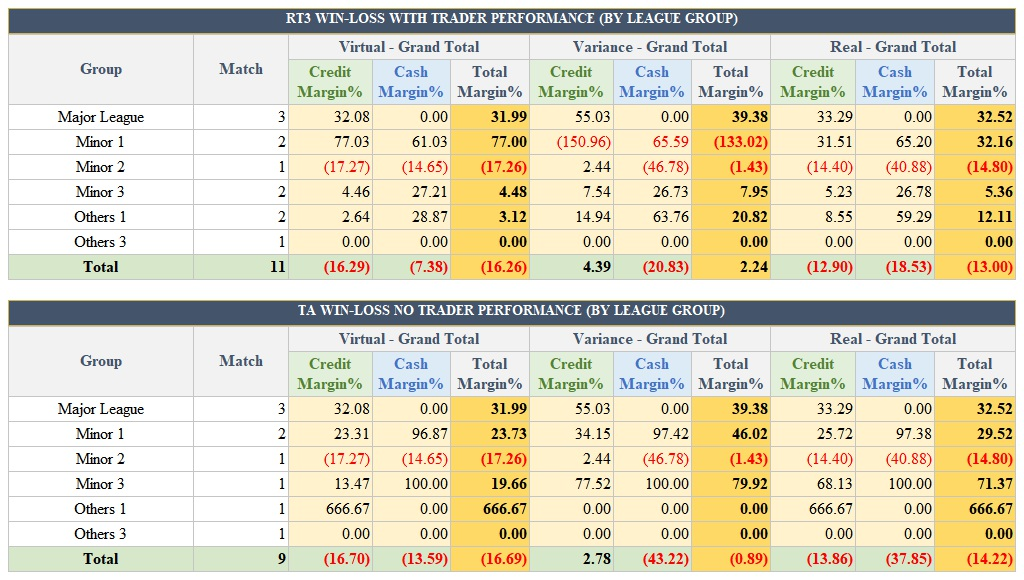
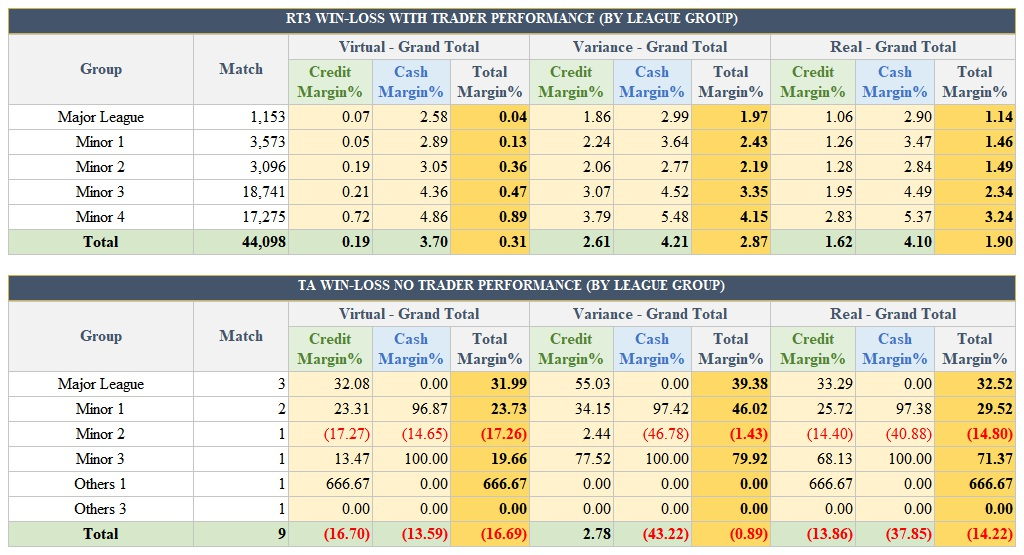
132038 - Generate grid RT3 & TA comparison

diff --git a/Fanex.MAP.TGRS.WebAPI/Service/AutoTradingPerformanceService.cs b/Fanex.MAP.TGRS.WebAPI/Service/AutoTradingPerformanceService.cs
@@ -15,15 +15,29 @@
 
     public class AutoTradingPerformanceService : IAutoTradingPerformanceService
     {
+        private string _leagueGroupIds = "1, 2, 3, 4, 5, 6, 7, 8, 9, 10, 11";
+        private string _typeSiteIds = "2, 3";
+        private DateTime _taLauchedDate = new DateTime(2019, 11, 7);
+        private DateTime _ptAfterIncreaseVarianceDate = new DateTime(2019, 10, 19);
+
         public Task WriteAutoTradingTAMonthly()
         {
             var saveImagePath = AppDomain.CurrentDomain.BaseDirectory 
                                 + JobSettings.AutoTradingConfig.FolderImagePath 
                                 + @"\" + Consts.AutoTradingSaveImageTaMonthly;
 
-            IAutoTradingHtmlWriter writer = new AutoTradingHtmlWriter();
+            var criteria = new GetAutoTradingMonthlyPerformanceCriteria
+            {
+                FromDate = _taLauchedDate,
+                ToDate = GetSundayOfLastWeek(),
+                LeagueGroupIds = _leagueGroupIds,
+                TypeSiteIds = _typeSiteIds,
+                Model = 3 // TA
+            };
 
-            GetAutoTradingMonthlyPerformance(GenerateMonthlyPerformanceCriteria(), writer);
+            IAutoTradingHtmlWriter writer = new AutoTradingHtmlWriter();            
+
+            GetAutoTradingMonthlyPerformance(criteria, writer);
 
             writer.RenderHtmlToImage(saveImagePath);
 
@@ -37,15 +51,24 @@
             var saveImagePath = AppDomain.CurrentDomain.BaseDirectory 
                                 + JobSettings.AutoTradingConfig.FolderImagePath 
                                 + @"\" + Consts.AutoTradingSaveImagePTAndAfterVRAdjustment;
+            var criteria = new GetAutoTradingWeeklyPerformanceCriteria
+            {
+                FromDate = _ptAfterIncreaseVarianceDate,
+                ToDate = GetSundayOfLastWeek(),
+                LeagueGroupIds = _leagueGroupIds,
+                TypeSiteIds = _typeSiteIds,
+                Model = 3 // TA
+            };
 
             IAutoTradingHtmlWriter writer = new AutoTradingHtmlWriter();
             
-            writer.GenerateBeginTagHtmlBody();
-            var criteriaWeekly = GenerateWeeklyPerformanceCriteria();
-            GetAutoTradingTimelinePerformance(criteriaWeekly, titleTaNoTrader, writer);
+            writer.GenerateBeginTagHtmlBody();           
+            GetAutoTradingTimelinePerformance(criteria, titleTaNoTrader, writer);
 
             writer.GenerateEmptyRows();
-            GetAutoTradingWeeklyPerformance(criteriaWeekly, titleLastWeeks, writer);
+            criteria.FromDate = GetDateOfFourLastWeek();
+            criteria.ToDate = GetSundayOfLastWeek();
+            GetAutoTradingWeeklyPerformance(criteria, titleLastWeeks, writer);
 
             writer.GenerateEndTagHtmlBody()
                   .RenderHtmlToImage(saveImagePath);
@@ -60,19 +83,23 @@
             var saveImagePath = AppDomain.CurrentDomain.BaseDirectory 
                                 + JobSettings.AutoTradingConfig.FolderImagePath 
                                 + @"\" + Consts.AutoTradingSaveImageRT3AndTAComparition;
+            var criteria = new GetAutoTradingEventPerformanceCriteria
+            {
+                FromDate = _taLauchedDate,
+                ToDate = GetSundayOfLastWeek(),
+                TypeSiteIds = _typeSiteIds,
+                Model = 3 // TA
+            };
 
             IAutoTradingHtmlWriter writer = new AutoTradingHtmlWriter();
             
             var leagueGroupList = GetLeagueGroupList();
             writer.GenerateBeginTagHtmlBody();
-
-            var criteriaEvent = GenerateEventPerformanceCriteria();
-            criteriaEvent.Model = 1;
-            GetAutoTradingEventPerformance(criteriaEvent, leagueGroupList, titleModelRT3, writer);
+            
+            GetAutoTradingEventRT3Performance(titleModelRT3, writer);
 
             writer.GenerateEmptyRows();
-            criteriaEvent.Model = 3;
-            GetAutoTradingEventPerformance(criteriaEvent, leagueGroupList, titleModelTA, writer);
+            GetAutoTradingEventTAPerformance(criteria, leagueGroupList, titleModelTA, writer);
 
             writer.GenerateEndTagHtmlBody()
                   .RenderHtmlToImage(saveImagePath);
@@ -153,7 +180,7 @@
                                 autoTradingTimelineInfo.RT3AfterPT85,
                                 autoTradingTimelineInfo.RT3IncreaseVariancePT
                             };
-                            writer.GenerateTimelinePTTableTr(timelinePTInfoList);                            
+                            writer.GenerateRT3PTTableTr(timelinePTInfoList);                            
                         }
 
                         var autoTradingName = "TA After PT 85 & increase Variance PT";
@@ -167,7 +194,7 @@
         private AutoTradingTimelineInfo GetAutoTradingTimelineInfos()
         {
             Directory.SetCurrentDirectory(AppDomain.CurrentDomain.BaseDirectory);
-            var json = File.ReadAllText("JobWorks/Settings/AutoTradingTimeline.json");
+            var json = File.ReadAllText("JobWorks/Settings/AutoTradingTimelineFixed.json");
             return JsonConvert.DeserializeObject<AutoTradingTimelineInfo>(json);
         }
 
@@ -222,7 +249,32 @@
             return weekly;
         }
 
-        private void GetAutoTradingEventPerformance(GetAutoTradingEventPerformanceCriteria criteria, Dictionary<int, string> leagueGroupList, string title, IAutoTradingHtmlWriter writer)
+        private void GetAutoTradingEventRT3Performance(string title, IAutoTradingHtmlWriter writer)
+        {
+            Directory.SetCurrentDirectory(AppDomain.CurrentDomain.BaseDirectory);
+            var json = File.ReadAllText("JobWorks/Settings/AutoTradingEventRT3Fixed.json");
+            var eventRT3Info = JsonConvert.DeserializeObject<AutoTradingEventRT3Info>(json);
+
+            if (eventRT3Info != null)
+            {
+                var eventRT3List = new List<AutoTradingPTPerformanceInfo>
+                            {
+                                eventRT3Info.MajorLeague,
+                                eventRT3Info.Minor1,
+                                eventRT3Info.Minor2,
+                                eventRT3Info.Minor3,
+                                eventRT3Info.Minor4,
+                                eventRT3Info.Total
+                            };
+
+                writer.GenerateBeginTagHtmlBody()
+                      .GenerateTable(title, "Group", true)
+                      .GenerateEventRT3PTTableTr(eventRT3List)
+                      .RenderControlTable();
+            }
+        }
+
+        private void GetAutoTradingEventTAPerformance(GetAutoTradingEventPerformanceCriteria criteria, Dictionary<int, string> leagueGroupList, string title, IAutoTradingHtmlWriter writer)
         {
             using (var objectDb = new ObjectDb(criteria.GetSettingKey()))
             {
@@ -255,45 +307,22 @@
                         }
 
                         writer.GenerateGrandTotalTableTr(eventData, grandTotalSummary, "Total")
-                               .RenderControlTable();                              
+                               .RenderControlTable();
                     }
                 }
             }
+        }    
+
+        private DateTime GetDateOfFourLastWeek()
+        {
+            var sundayOfLastWeek = GetSundayOfLastWeek();
+
+            return sundayOfLastWeek.AddDays(-28);
         }
 
-        private GetAutoTradingMonthlyPerformanceCriteria GenerateMonthlyPerformanceCriteria()
+        private DateTime GetSundayOfLastWeek()
         {
-            return new GetAutoTradingMonthlyPerformanceCriteria
-            {
-                FromDate = new DateTime(2020, 01, 01),
-                ToDate = new DateTime(2020, 04, 01),
-                LeagueGroupIds = "1, 2, 3, 4, 5, 6",
-                TypeSiteIds = "2, 3",
-                Model = 3
-            };
-        }
-
-        private GetAutoTradingWeeklyPerformanceCriteria GenerateWeeklyPerformanceCriteria()
-        {
-            return new GetAutoTradingWeeklyPerformanceCriteria
-            {
-                FromDate = new DateTime(2020, 01, 01),
-                ToDate = new DateTime(2020, 04, 01),
-                LeagueGroupIds = "1, 2, 3, 4, 5, 6",
-                TypeSiteIds = "2, 3",
-                Model = 3
-            };
-        }
-
-        private GetAutoTradingEventPerformanceCriteria GenerateEventPerformanceCriteria()
-        {
-            return new GetAutoTradingEventPerformanceCriteria
-            {
-                FromDate = new DateTime(2020, 01, 01),
-                ToDate = new DateTime(2020, 04, 01),
-                TypeSiteIds = "2, 3",
-                Model = 1
-            };
+            return DateTime.Now.AddDays(-(int)DateTime.Now.DayOfWeek);
         }
 
         private Dictionary<int, string> GetLeagueGroupList()

diff --git a/Fanex.MAP.TGRS.WebAPI/Model/HtmlModel/AutoTrading/AutoTradingHtmlWriter.cs b/Fanex.MAP.TGRS.WebAPI/Model/HtmlModel/AutoTrading/AutoTradingHtmlWriter.cs
@@ -125,41 +125,20 @@
             return this;
         }
 
-        public IAutoTradingHtmlWriter GenerateTimelinePTTableTr(List<AutoTradingPTPerformanceInfo> autoTradingInfos)
+        public IAutoTradingHtmlWriter GenerateRT3PTTableTr(List<AutoTradingPTPerformanceInfo> autoTradingInfos)
         {
-            var styleTableTd = _css.StyleTimelinePTTableTd;
-            var styleTableTdSum = _css.StyleTimelinePTTableTdSum;
-
-            foreach (var info in autoTradingInfos)
-            {
-                var cellAutoTradingName = new TableCell { Text = info.PTName, HorizontalAlign = HorizontalAlign.Center };
-                var cellMatch = new TableCell { Text = info.MatchCount.ToString(Consts.FormatIntToString), HorizontalAlign = HorizontalAlign.Right };
-
-                foreach (var style in styleTableTd)
-                {
-                    cellAutoTradingName.Style.Add(style.Key, style.Value);
-                    cellMatch.Style.Add(style.Key, style.Value);
-                }
-
-                var row = GenerateBodyTableRow();
-                row.Cells.Add(cellAutoTradingName);
-                row.Cells.Add(cellMatch);
-                row.Cells.Add(GenerateBodyTableCell(info.VirtualCreditMargin, styleTableTd));
-                row.Cells.Add(GenerateBodyTableCell(info.VirtualCashMargin, styleTableTd));
-                row.Cells.Add(GenerateBodyTableCell(info.VirtualTotalMargin, styleTableTdSum));
-                row.Cells.Add(GenerateBodyTableCell(info.VarianceCreditMargin, styleTableTd));
-                row.Cells.Add(GenerateBodyTableCell(info.VarianceCashMargin, styleTableTd));
-                row.Cells.Add(GenerateBodyTableCell(info.VarianceTotalMargin, styleTableTdSum));
-                row.Cells.Add(GenerateBodyTableCell(info.RealCreditMargin, styleTableTd));
-                row.Cells.Add(GenerateBodyTableCell(info.RealCashMargin, styleTableTd));
-                row.Cells.Add(GenerateBodyTableCell(info.RealTotalMargin, styleTableTdSum));
-
-                _table.Rows.Add(row);
-            }
+            GenerateRT3PTTableTr(autoTradingInfos, null, null);
 
             return this;
         }
 
+        public IAutoTradingHtmlWriter GenerateEventRT3PTTableTr(List<AutoTradingPTPerformanceInfo> autoTradingInfos)
+        {
+            GenerateRT3PTTableTr(autoTradingInfos, _css.StyleTableTdSite, _css.StyleTableTdSiteSum);
+
+            return this;
+        }
+       
         public IAutoTradingHtmlWriter RenderControlTable()
         {
             _table.RenderControl(_writer);
@@ -186,6 +165,55 @@
             image.Save(savePath);
 
             return this;
+        }
+
+        private void GenerateRT3PTTableTr(List<AutoTradingPTPerformanceInfo> autoTradingInfos
+           , Dictionary<string, string> styleTableTd
+           , Dictionary<string, string> styleTableTdSum)
+        {
+            var isStyleDefault = false;
+
+            if (styleTableTd == null)
+            {
+                isStyleDefault = true;
+                styleTableTd = _css.StyleTimelinePTTableTd;
+                styleTableTdSum = _css.StyleTimelinePTTableTdSum;
+            }
+
+            foreach (var info in autoTradingInfos)
+            {
+                var cellAutoTradingName = new TableCell { Text = info.PTName, HorizontalAlign = HorizontalAlign.Center };
+                var cellMatch = new TableCell { Text = info.MatchCount.ToString(Consts.FormatIntToString), HorizontalAlign = HorizontalAlign.Right };
+                var styles = isStyleDefault ? _css.StyleTimelinePTTableTd : _css.StyleTableTd;
+
+                if (info.PTName.ToUpper().Equals(Consts.AutoTradingTOTAL))
+                {
+                    styles = _css.StyleTableTdGrandTotalSite;
+                    styleTableTd = _css.StyleTableTdGrandTotalSite;
+                    styleTableTdSum = _css.StyleTableTdGrandTotalSiteSum;
+                }
+
+                foreach (var style in styles)
+                {
+                    cellAutoTradingName.Style.Add(style.Key, style.Value);
+                    cellMatch.Style.Add(style.Key, style.Value);
+                }
+
+                var row = GenerateBodyTableRow();
+                row.Cells.Add(cellAutoTradingName);
+                row.Cells.Add(cellMatch);
+                row.Cells.Add(GenerateBodyTableCell(info.VirtualCreditMargin, styleTableTd));
+                row.Cells.Add(GenerateBodyTableCell(info.VirtualCashMargin, styleTableTd));
+                row.Cells.Add(GenerateBodyTableCell(info.VirtualTotalMargin, styleTableTdSum));
+                row.Cells.Add(GenerateBodyTableCell(info.VarianceCreditMargin, styleTableTd));
+                row.Cells.Add(GenerateBodyTableCell(info.VarianceCashMargin, styleTableTd));
+                row.Cells.Add(GenerateBodyTableCell(info.VarianceTotalMargin, styleTableTdSum));
+                row.Cells.Add(GenerateBodyTableCell(info.RealCreditMargin, styleTableTd));
+                row.Cells.Add(GenerateBodyTableCell(info.RealCashMargin, styleTableTd));
+                row.Cells.Add(GenerateBodyTableCell(info.RealTotalMargin, styleTableTdSum));
+
+                _table.Rows.Add(row);
+            }
         }
 
         private TableRow GenerateRangeHeaderColumns(string autoTradingName)

diff --git a/Fanex.MAP.TGRS.WebAPI/Model/DataModel/AutoTrading/AutoTradingEventRT3Info.cs b/Fanex.MAP.TGRS.WebAPI/Model/DataModel/AutoTrading/AutoTradingEventRT3Info.cs
@@ -1,0 +1,19 @@
+namespace Fanex.MAP.TGRS.WebAPI.Model.DataModel.AutoTrading
+{
+    public class AutoTradingEventRT3Info
+    {
+        public AutoTradingPTPerformanceInfo MajorLeague { get; set; }
+
+        public AutoTradingPTPerformanceInfo Minor1 { get; set; }
+
+        public AutoTradingPTPerformanceInfo Minor2 { get; set; }
+
+        public AutoTradingPTPerformanceInfo Minor3 { get; set; }
+
+        public AutoTradingPTPerformanceInfo Minor4 { get; set; }
+
+        public AutoTradingPTPerformanceInfo Other1 { get; set; }
+
+        public AutoTradingPTPerformanceInfo Total { get; set; }
+    }
+}

diff --git a/Fanex.MAP.TGRS.WebAPI/Model/HtmlModel/AutoTrading/IAutoTradingHtmlWriter.cs b/Fanex.MAP.TGRS.WebAPI/Model/HtmlModel/AutoTrading/IAutoTradingHtmlWriter.cs
@@ -19,7 +19,9 @@
 
         IAutoTradingHtmlWriter GenerateHeaderEmptyGrandTotalTableTr(IEnumerable<AutoTradingModelPerformanceInfo> autoTradingInfos, AutoTradingSummaryInfo summaryInfo, string autoTradingName);
 
-        IAutoTradingHtmlWriter GenerateTimelinePTTableTr(List<AutoTradingPTPerformanceInfo> autoTradingInfos);
+        IAutoTradingHtmlWriter GenerateRT3PTTableTr(List<AutoTradingPTPerformanceInfo> autoTradingInfos);
+
+        IAutoTradingHtmlWriter GenerateEventRT3PTTableTr(List<AutoTradingPTPerformanceInfo> autoTradingInfos);
 
         IAutoTradingHtmlWriter RenderControlTable();
 

diff --git a/Fanex.MAP.TGRS.WebAPI/JobWorks/JobManager.cs b/Fanex.MAP.TGRS.WebAPI/JobWorks/JobManager.cs
@@ -9,6 +9,8 @@
     {
         public static void State()
         {
+            LoadSettings();
+
             // When LibLog does not detect any other logging framework to be present, it will be silent. 
             // We can configure a custom logger provider that just logs to console show the output if you don’t have logging framework setup ready yet.
             LogProvider.SetCurrentLogProvider(new ConsoleLogProvider());

diff --git a/Fanex.MAP.TGRS.WebAPI/Consts/Consts.cs b/Fanex.MAP.TGRS.WebAPI/Consts/Consts.cs
@@ -12,5 +12,6 @@
         public const string AutoTradingSaveImageTaMonthly = "AutoTrading_TaMonthly.Png";
         public const string AutoTradingSaveImagePTAndAfterVRAdjustment = "AutoTrading_PTAndAfterVRAdjustment.Png";
         public const string AutoTradingSaveImageRT3AndTAComparition = "AutoTrading_RT3AndTAComparition.Png";
+        public const string AutoTradingTOTAL = "TOTAL";
     }
 }

diff --git a/Fanex.MAP.TGRS.WebAPI/Global.asax.cs b/Fanex.MAP.TGRS.WebAPI/Global.asax.cs
@@ -23,8 +23,7 @@
             FilterConfig.RegisterGlobalFilters(GlobalFilters.Filters);
             RouteConfig.RegisterRoutes(RouteTable.Routes);
             BundleConfig.RegisterBundles(BundleTable.Bundles);
-
-            JobManager.LoadSettings();
+            
             JobManager.State();
         }
     }
